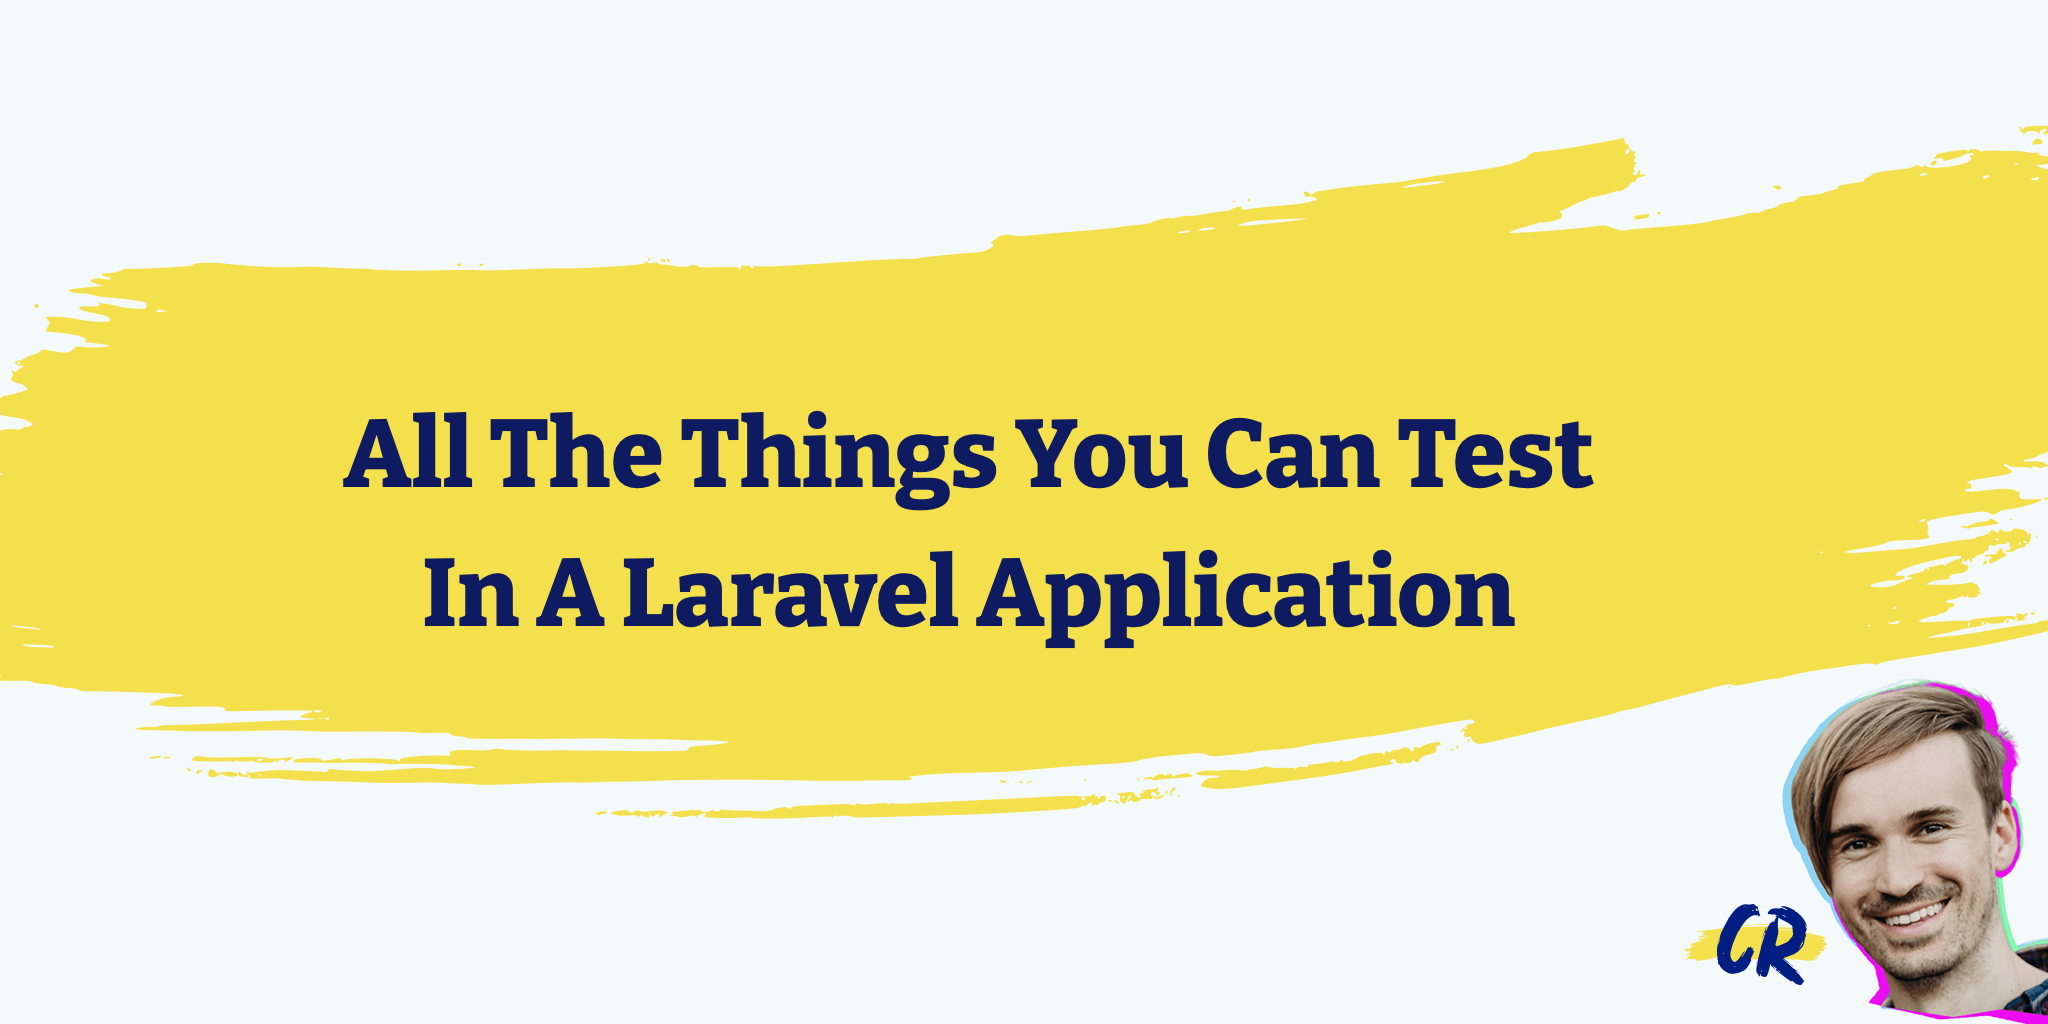
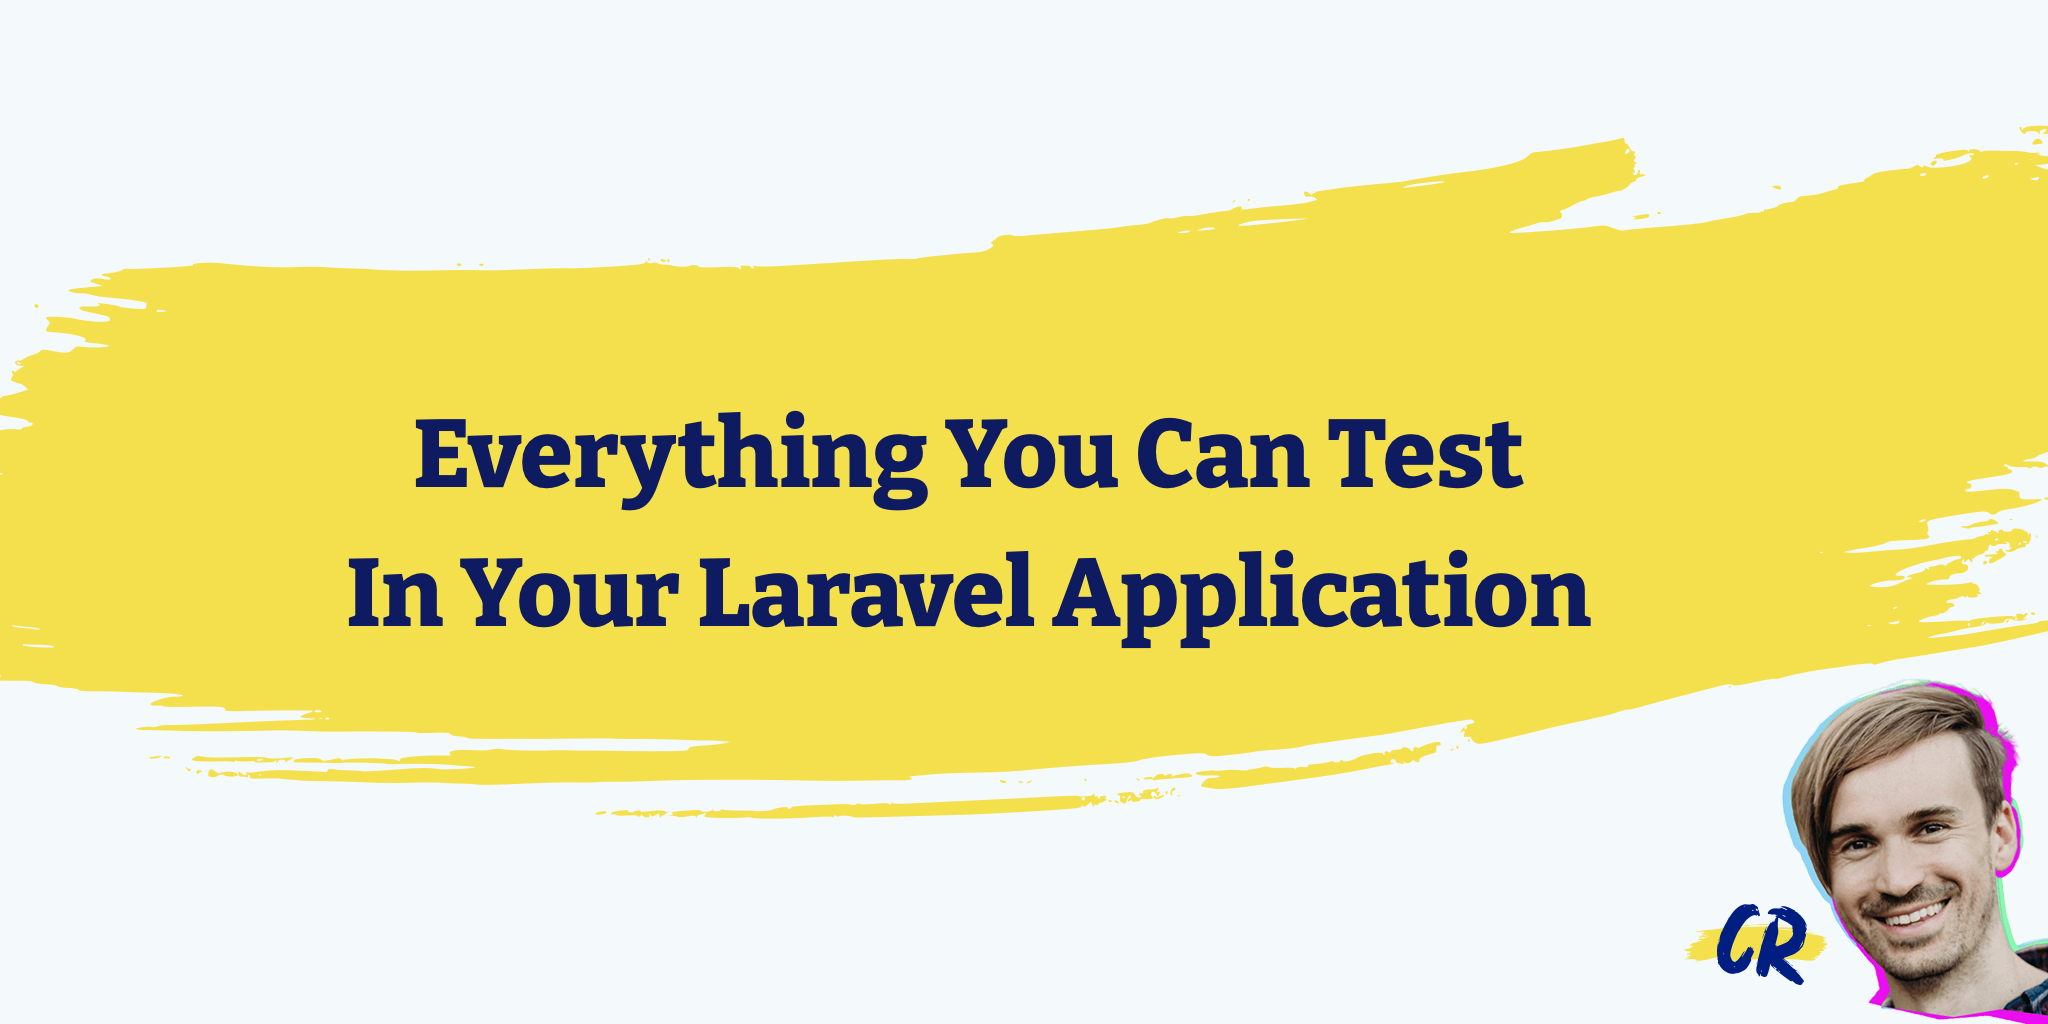
update blog image

Changed region(s): [[0.1562, 0.5312, 0.7812, 0.6562], [0.1562, 0.4062, 0.7812, 0.5]]

diff --git a/content/posts/2023-03-10.everything-you-can-test-in-your-laravel-app.md b/content/posts/2023-03-10.everything-you-can-test-in-your-laravel-app.md
@@ -6,8 +6,8 @@ to test something, but WHAT you can test. I have
 made a list of all the things I like to test in my
 applications."
 hidden: false
-preview_image: images/blog/2023/yearinreview22_me.png
-preview_image_twitter: images/blog/2023/yearinreview22_me.png
+preview_image: images/blog/2023/blog_what_to_test_in_laravel.png
+preview_image_twitter: images/blog/2023/blog_what_to_test_in_laravel.png
 ---
 
 All test examples focus on testing concepts and
@@ -32,6 +32,7 @@ Looking for something specific? Pick it:
 * [Testing Exceptions](#testing-exceptions)
 * [Testing Units (Unit Tests)](#testing-units)
 * [Faking HTTP Calls](#faking-http-calls)
+* [Testing HTTP Calls](#testing-http-calls)
 * [Mocking Dependencies](#mocking-dependencies)
 
 <div class="blognote"><strong>Note:</strong> All examples can also be found on the dedicated <a href="https://github.com/christophrumpel/what-you-can-test-in-laravel">repository</a>. </div>
